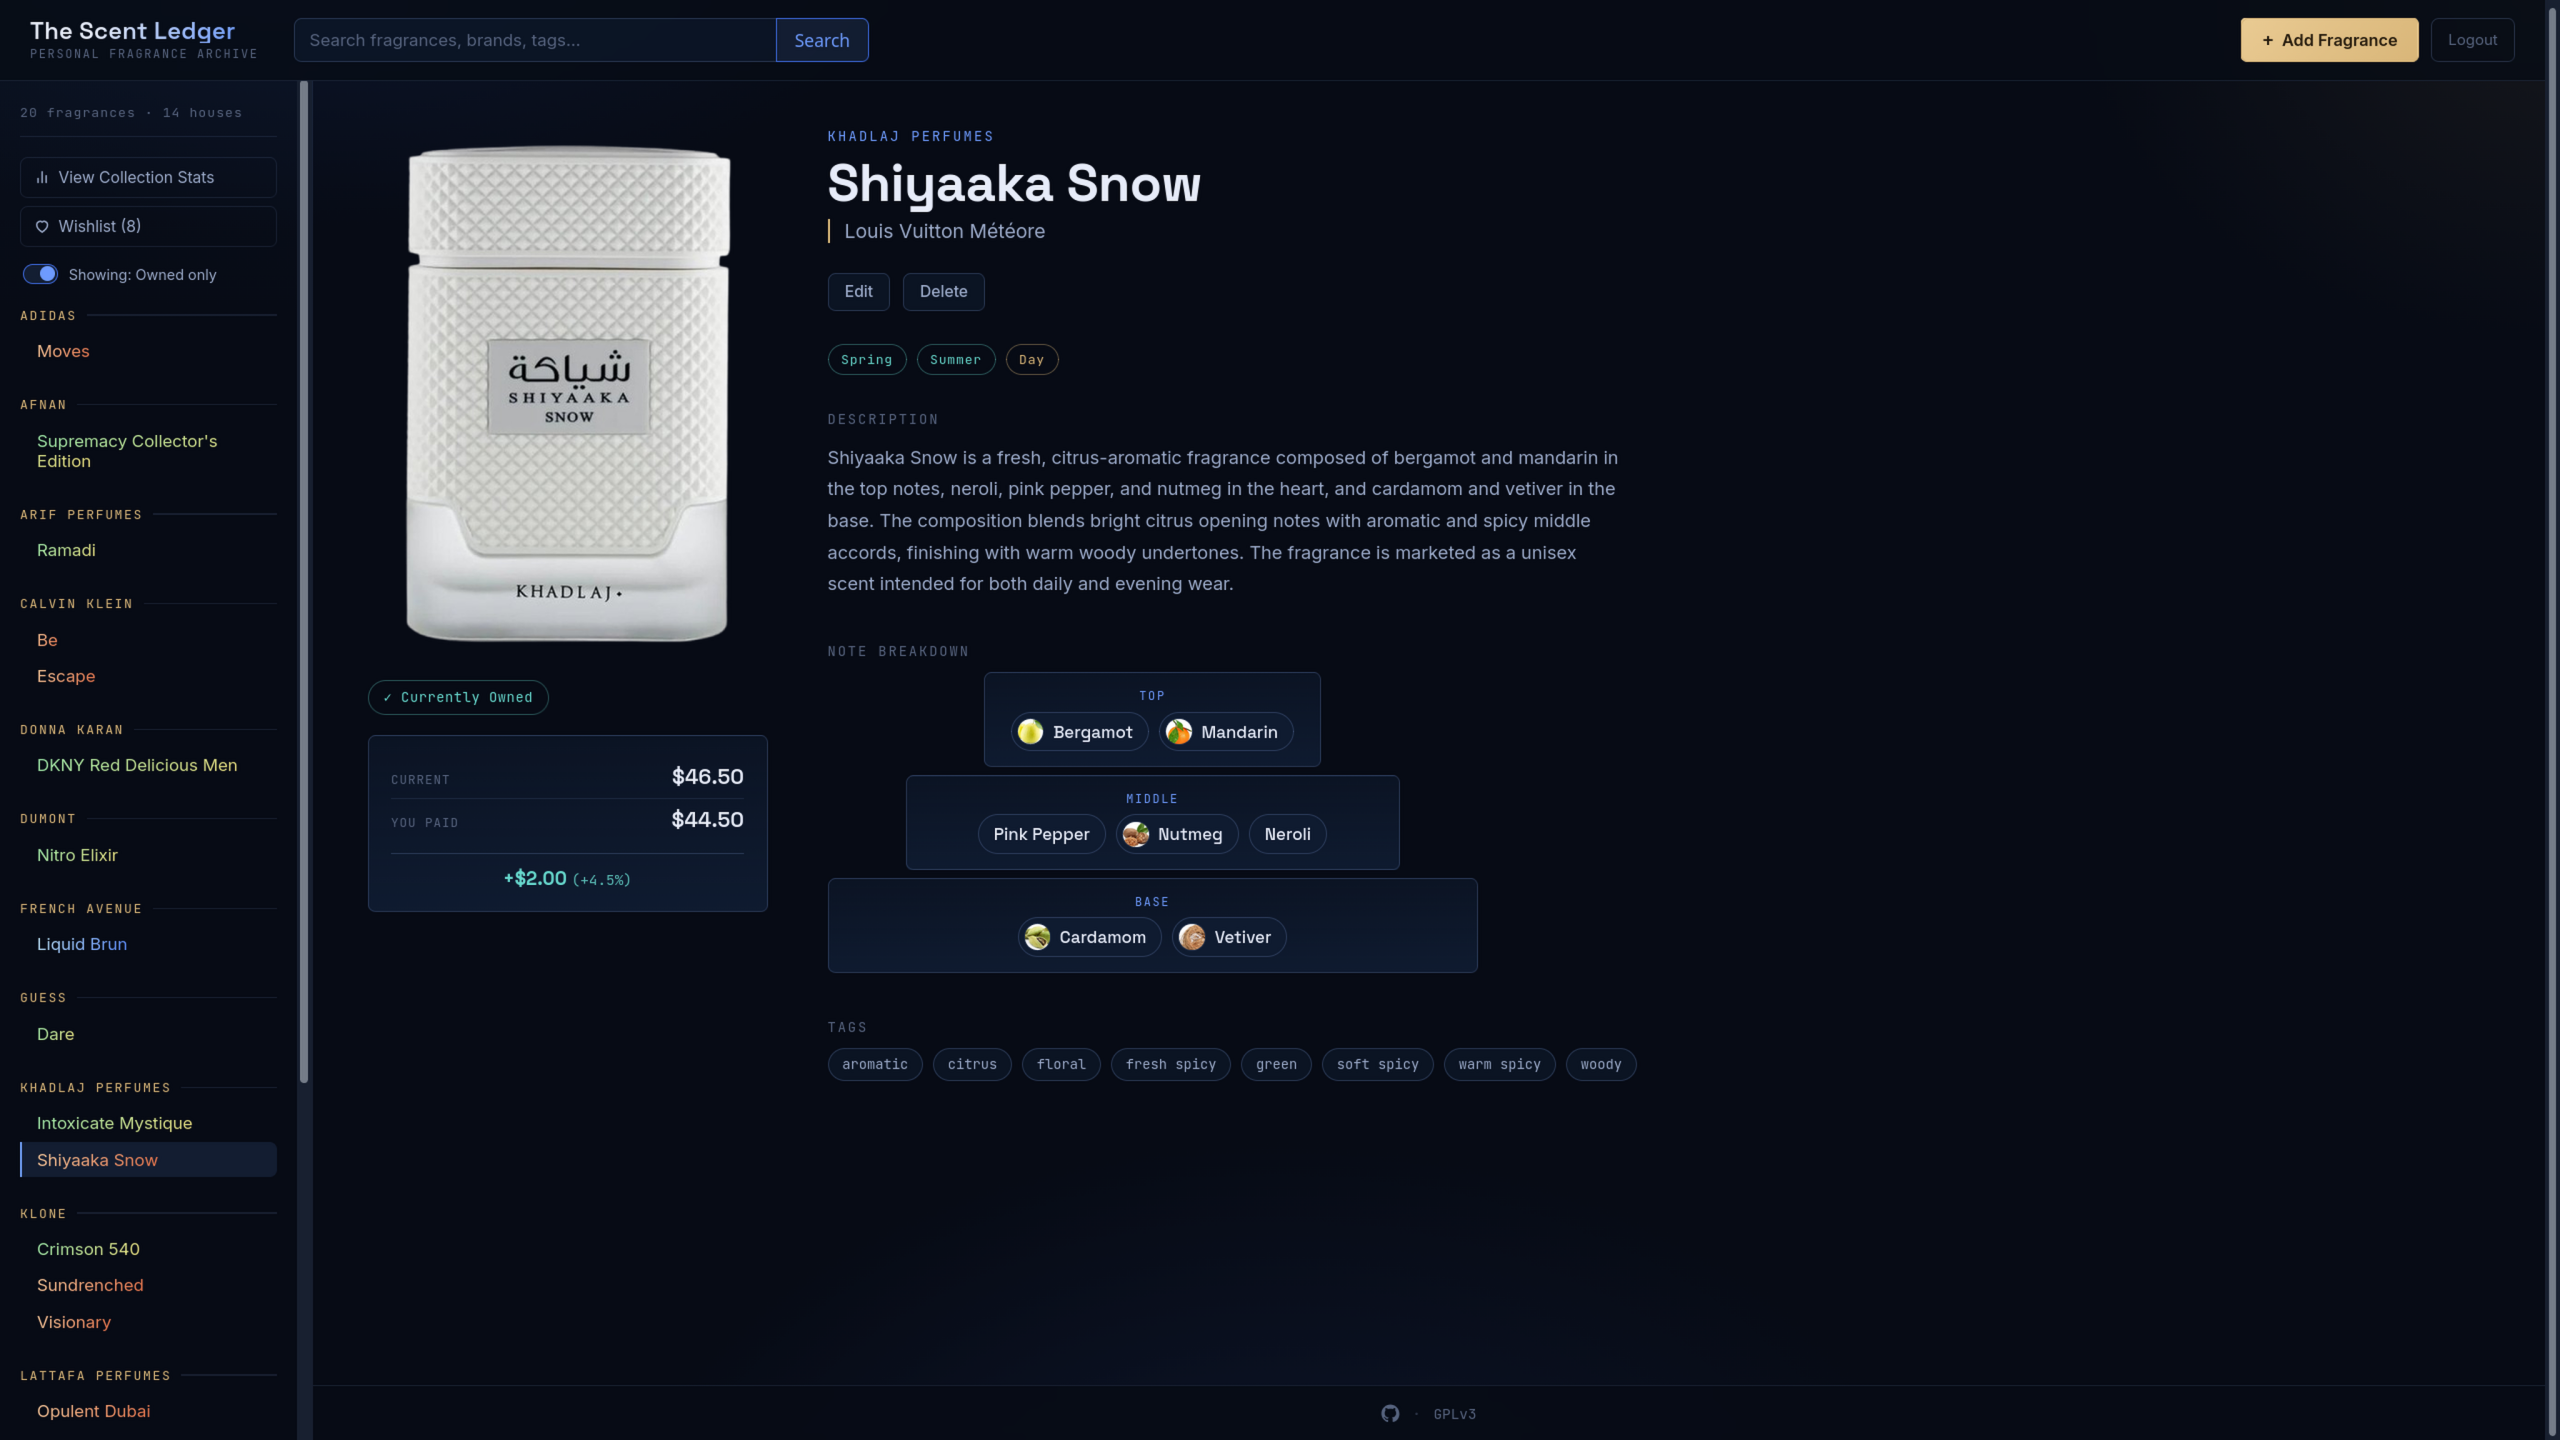
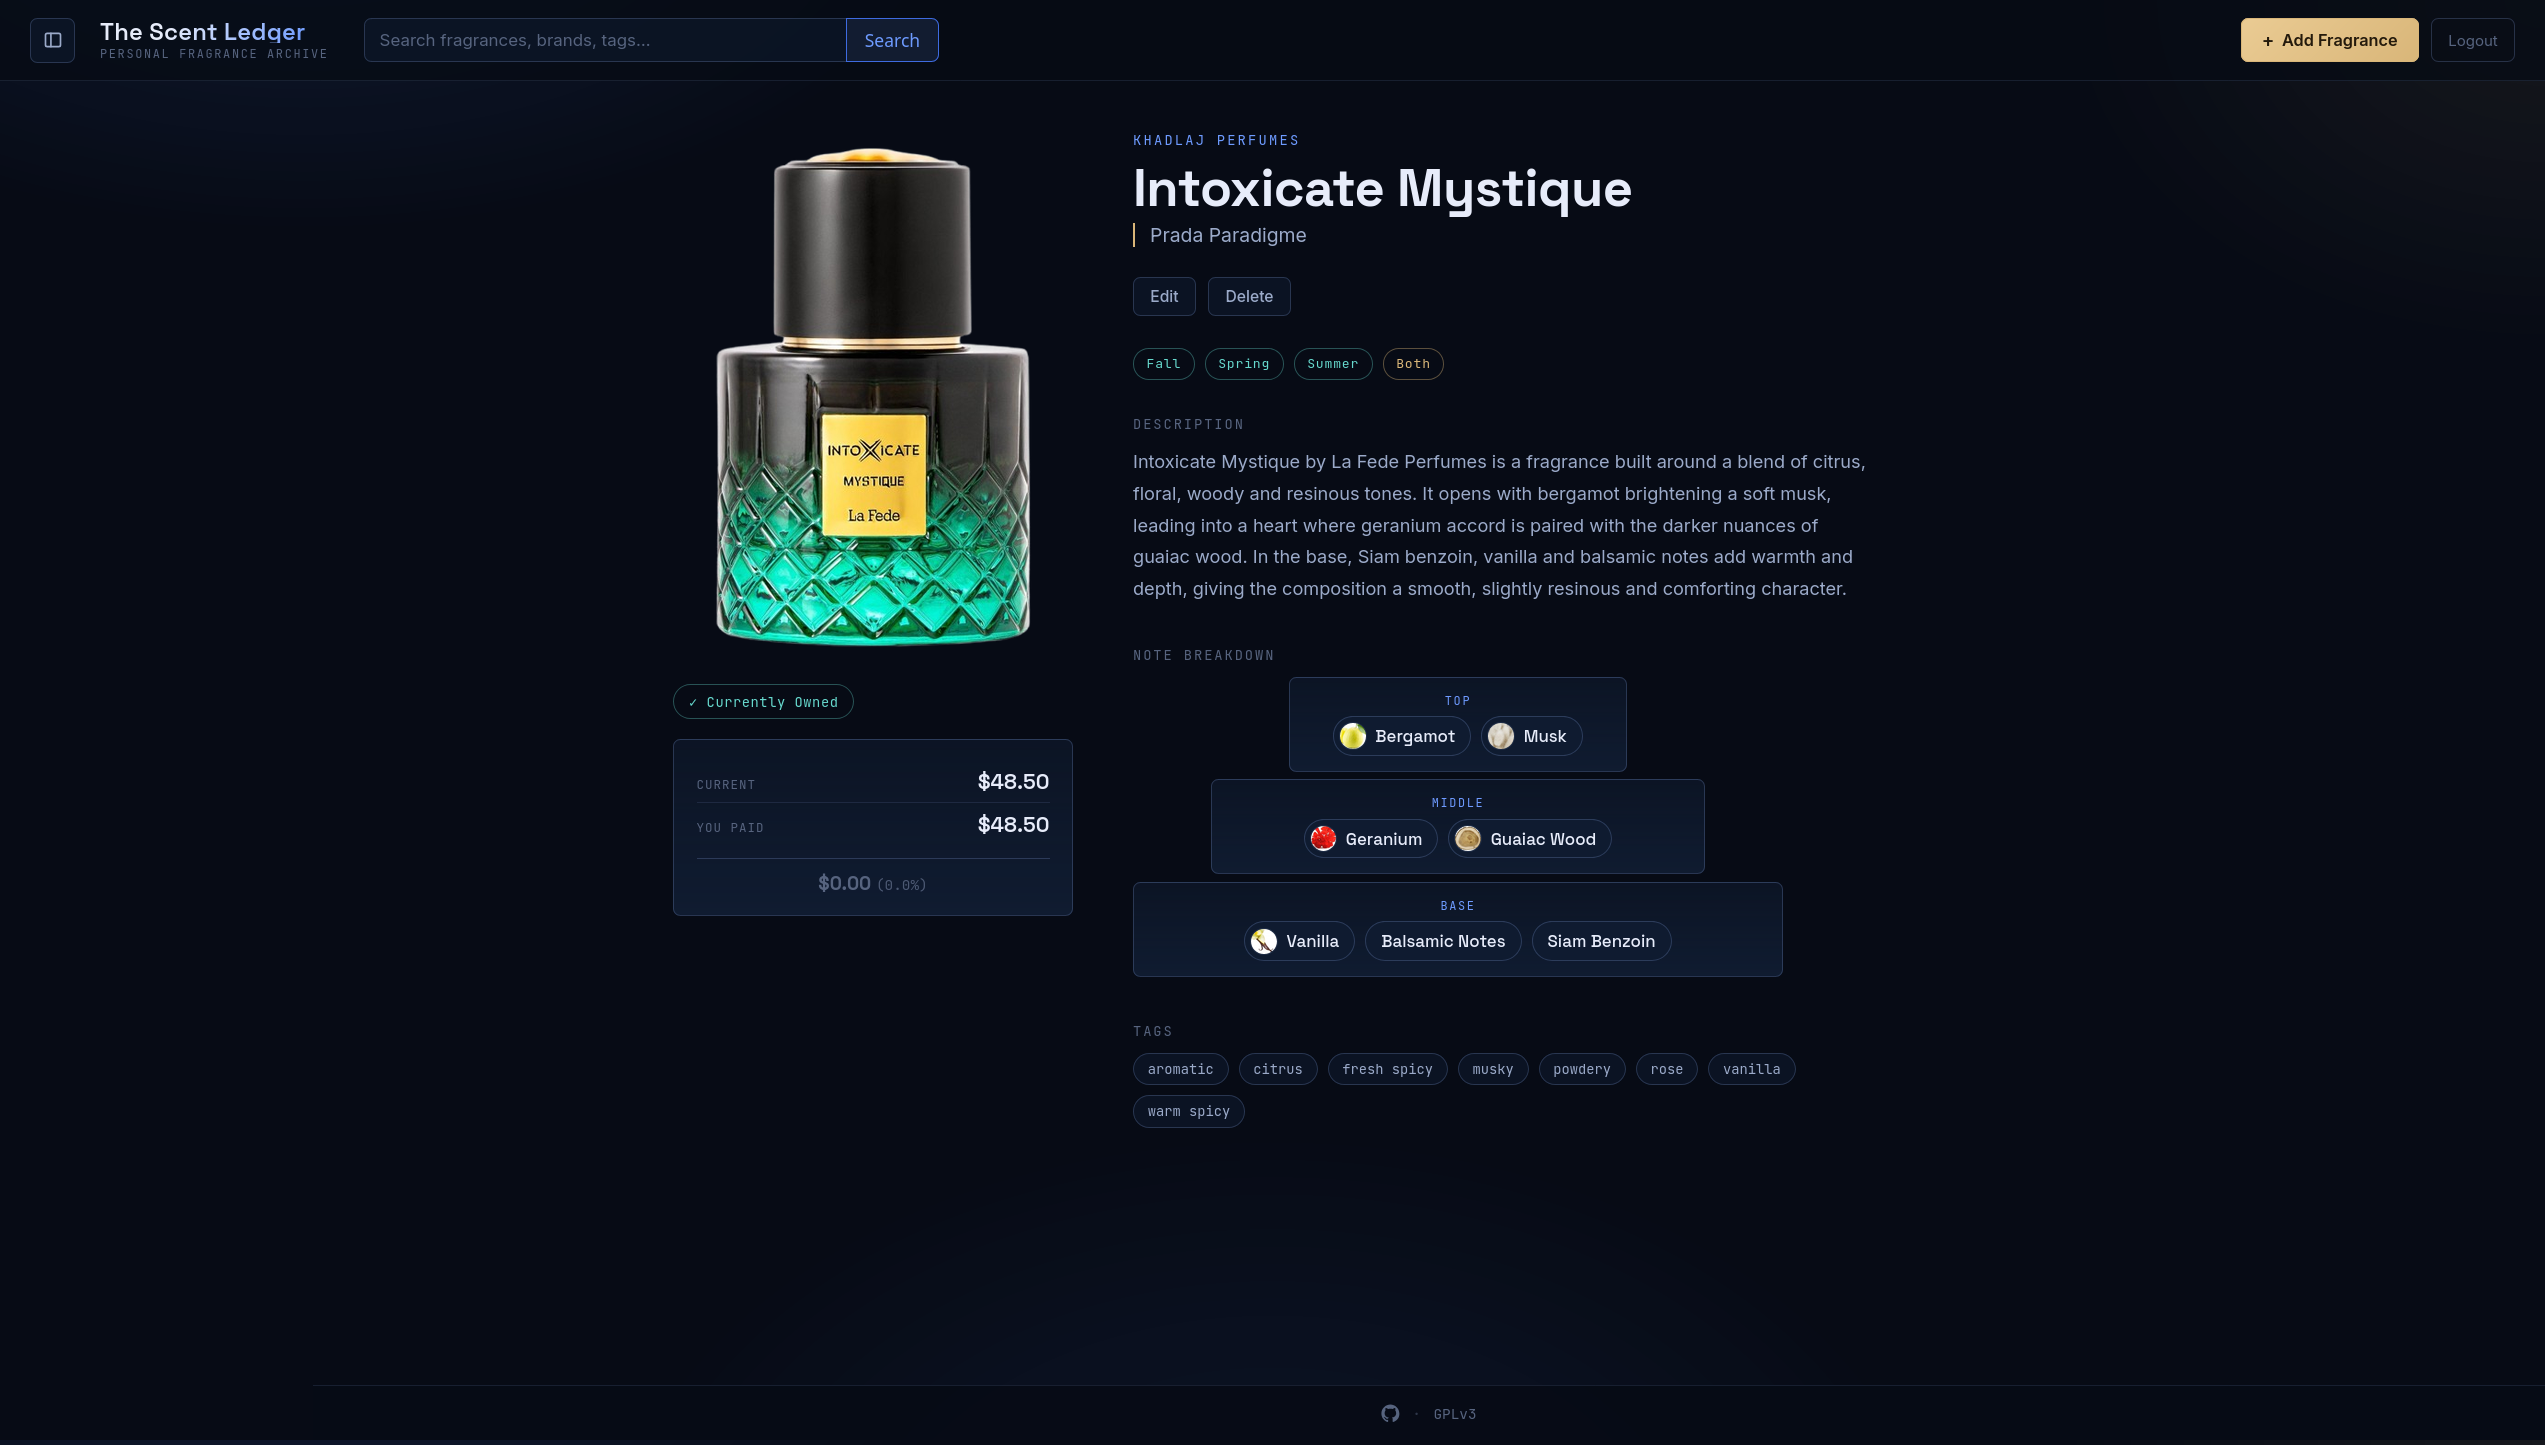
Add sidebar toggle and center content

diff --git a/static/style.css b/static/style.css
@@ -74,6 +74,13 @@ header.site-header{
   color:var(--ink);width:40px;height:40px;border-radius:var(--radius);
   font-size:16px;cursor:pointer;flex-shrink:0;
 }
+.sidebar-collapse-toggle{
+  display:flex;align-items:center;justify-content:center;flex-shrink:0;
+  background:var(--bg-glass);border:1px solid var(--line-strong);color:var(--ink-dim);
+  width:36px;height:36px;border-radius:var(--radius);cursor:pointer;
+  transition:border-color .15s, color .15s, background .15s;
+}
+.sidebar-collapse-toggle:hover{border-color:var(--sapphire);color:var(--sapphire-bright);background:var(--sapphire-glow-soft);}
 .mobile-search-btn{
   display:none;align-items:center;justify-content:center;flex-shrink:0;
   width:40px;height:40px;border-radius:var(--radius);
@@ -134,6 +141,16 @@ aside.sidebar{
   width:250px;flex-shrink:0;border-right:1px solid var(--line);
   padding:22px 16px 60px;height:calc(100vh - 61px);position:sticky;top:61px;overflow-y:auto;
   background:linear-gradient(180deg, rgba(13,22,38,0.4), transparent 200px);
+  transition:width .2s ease, padding .2s ease, border-color .2s ease;
+}
+/* Scoped to desktop widths on purpose — below the mobile breakpoint the
+   sidebar is already an off-canvas drawer with its own show/hide mechanism
+   (transform + fixed position), and this collapsed state persists across
+   viewport sizes via localStorage, so it must never fight that. */
+@media (min-width:901px){
+  html.sidebar-collapsed aside.sidebar{
+    width:0;padding-left:0;padding-right:0;border-color:transparent;overflow:hidden;
+  }
 }
 .sidebar-count{
   font-family:'JetBrains Mono',monospace;font-size:10.5px;color:var(--ink-faint);
@@ -283,7 +300,7 @@ main.content{flex:1;min-width:0;padding:40px 44px 90px;}
 .empty-state p{color:var(--ink-dim);font-size:14px;margin:0 0 22px;}
 
 /* ---------- DETAIL ---------- */
-.detail-grid{display:grid;grid-template-columns:320px 1fr;gap:48px;align-items:start;}
+.detail-grid{display:grid;grid-template-columns:320px 1fr;gap:48px;align-items:start;max-width:960px;margin:0 auto;}
 .detail-image-col{position:sticky;top:96px;display:flex;flex-direction:column;gap:16px;}
 .detail-image{
   width:100%;background:var(--sapphire-deep);border:1px solid var(--line-strong);
@@ -733,6 +750,7 @@ main.content{flex:1;min-width:0;padding:40px 44px 90px;}
   .stats-grid{grid-template-columns:1fr;}
   .bar-row{grid-template-columns:84px 1fr 30px;gap:8px;}
   .menu-toggle{display:block;}
+  .sidebar-collapse-toggle{display:none;}
   .site-footer{left:0;}
   aside.sidebar{
     position:fixed;left:0;top:61px;bottom:0;z-index:40;background:var(--bg);

diff --git a/templates/base.html b/templates/base.html
@@ -7,9 +7,22 @@
 <link rel="stylesheet" href="{{ url_for('static', filename='style.css') }}">
 </head>
 <body>
+<script>
+  // Runs before the sidebar paints, so a saved "collapsed" preference takes
+  // effect immediately instead of flashing the expanded sidebar first.
+  if (localStorage.getItem('sidebarCollapsed') === 'true') {
+    document.documentElement.classList.add('sidebar-collapsed');
+  }
+</script>
 
 <header class="site-header">
   <button class="menu-toggle" id="menuToggle" aria-label="Toggle menu">&#9776;</button>
+  <button class="sidebar-collapse-toggle" id="sidebarCollapseToggle" aria-label="Toggle sidebar" title="Toggle sidebar">
+    <svg width="16" height="16" viewBox="0 0 24 24" fill="none" stroke="currentColor" stroke-width="2" stroke-linecap="round" stroke-linejoin="round">
+      <rect x="3" y="4" width="18" height="16" rx="2"></rect>
+      <line x1="9.5" y1="4" x2="9.5" y2="20"></line>
+    </svg>
+  </button>
   <a class="brand-mark" href="{{ url_for('home') }}" style="cursor:pointer;">
     <div class="title">The Scent Ledger</div>
     <div class="sub">Personal Fragrance Archive</div>

diff --git a/static/app.js b/static/app.js
@@ -25,6 +25,18 @@ document.addEventListener('DOMContentLoaded', () => {
   });
 });
 
+// Desktop sidebar collapse: persisted via localStorage so it survives page
+// loads and navigation. The inline script in base.html applies the saved
+// state before first paint; this just wires up the toggle click itself.
+document.addEventListener('DOMContentLoaded', () => {
+  const collapseToggle = document.getElementById('sidebarCollapseToggle');
+  if (!collapseToggle) return;
+  collapseToggle.addEventListener('click', () => {
+    const collapsed = document.documentElement.classList.toggle('sidebar-collapsed');
+    localStorage.setItem('sidebarCollapsed', collapsed);
+  });
+});
+
 // Chip-style input for notes (top/middle/base) and tags.
 // Keeps a hidden <input> in sync with a comma-separated list, backing a plain HTML form submit.
 function initChipField(hiddenId, containerId, textInputId, initialValues) {
